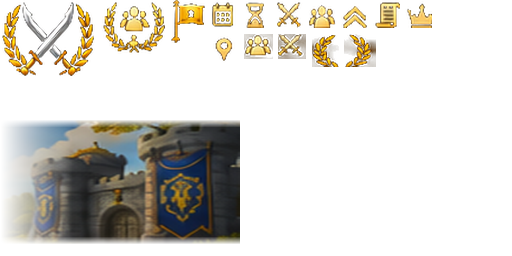
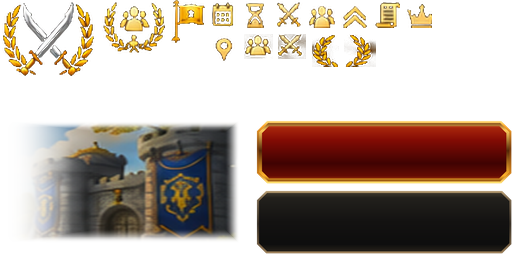
Refine Browse tournament metallic surfaces and transparent status artwork

diff --git a/docs/TOURNAMENTS.md b/docs/TOURNAMENTS.md
@@ -175,3 +175,6 @@ Polestar Theme/Widgets.lua 733–815 inspected: shared button painter, enabled-o
 
 ## Browse visual redesign — approved universal emblem
 Polestar Theme/Widgets.lua 733–815 and Polestar_Options/UI/Controls.lua 486–565 inspected for shared button painter, selected card and hover/press behavior. Replaced only Browse with one compact community strip, four reusable selectable cards, all/open/filling/full/closed filter, structured details, native shared larger labels and hover/press feedback, selected gold glow, and responsive wide/stacked layout. Approved image atlas 512×256 RGBA, 107267 bytes (FNV-1a 736bcd13), uses one crossed-swords emblem, icons, and the approved Elwynn image only for matching location/faction; other locations have neutral art, not made-up location images. No per-event custom logo. Status uses canonical ad count/capacity and existing simulated clock; Filling at >=85%, full/closed disable joining. Inspect & Join requires an explicit second click, selection and revision revalidated before existing join API; filter maps original index, no altered registration semantics. Test Bracket is explicitly a simulation action (existing watch function), not a claimed generated live bracket; View Bracket disabled before draw, organizer view retained. Empty state preserves Browse Test Tournaments. No new communication, settings or public activation. Existing catalog contains four fixtures; no expanded public discovery. Added pure projection/filter assertions to existing runner; live visual and input verification pending. Prior notification runtime test failure remains unrelated and outstanding.
+
+### Browse visual polish
+Polestar Theme/Widgets.lua 733–815 and Polestar_Options/UI/Controls.lua 486–565 re-inspected for shared native action and separate selected-card state. Cleaned dark matte from existing icon crops, faded the Elwynn scene edges, added a tintable circular light and transparent metallic nine-slice Browse plates. Removed status badge fill and flat selected-card wash; selection retains the existing separate golden feedback overlay. Filter labels reserve arrow space through an opt-in shared Style.Action label inset. The atlas remains 512x256 RGBA, 111837 bytes, FNV-1a d37acbb5. No registration, filtering, navigation, geometry or other-page default changes. In-game visual/interaction verification pending.
